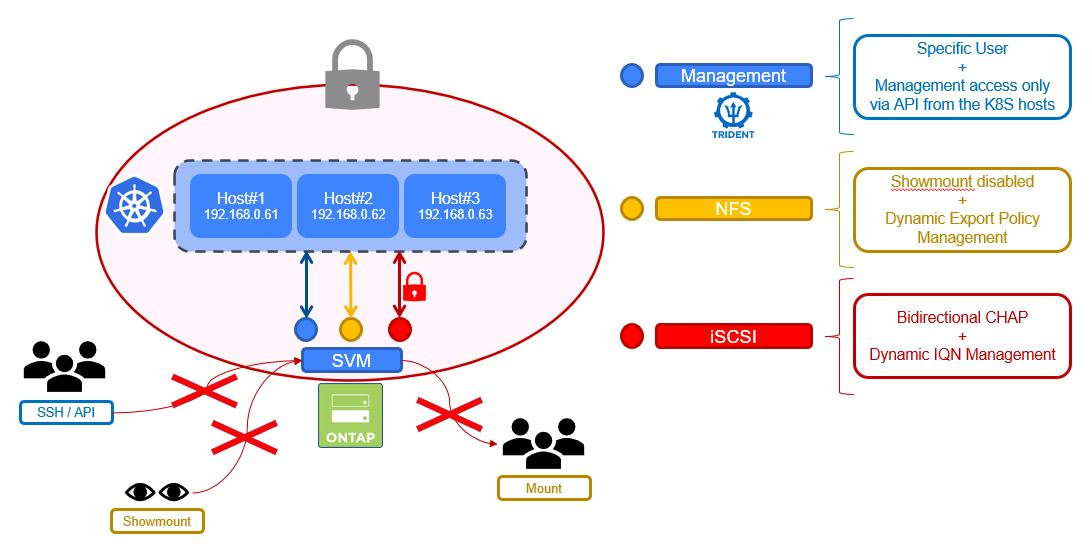
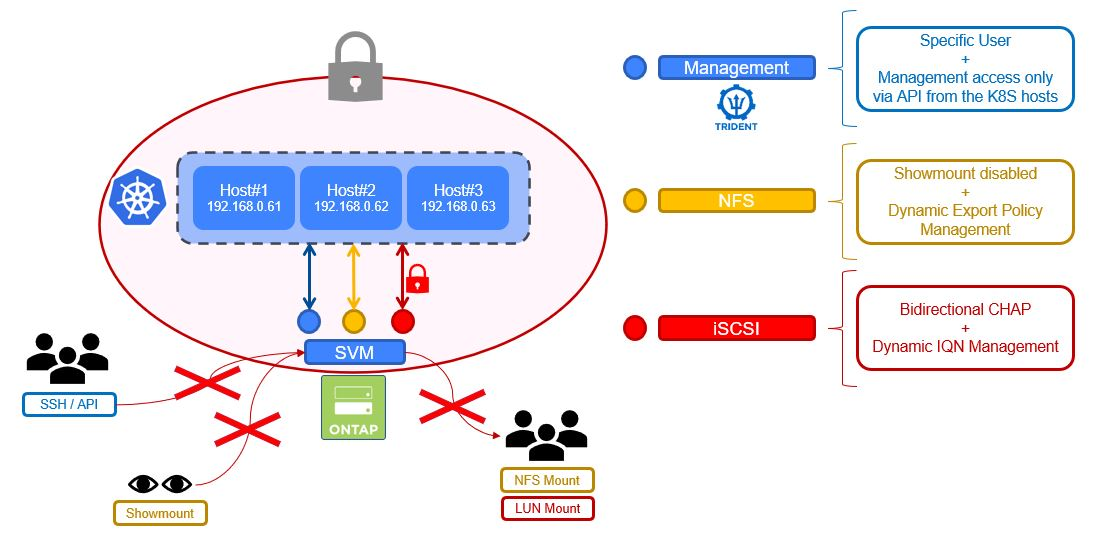
sc15 - chapter3

diff --git a/Kubernetes_v2/Scenarios/Scenario15/2_NFS_Showmount/README.md b/Kubernetes_v2/Scenarios/Scenario15/2_NFS_Showmount/README.md
@@ -1,0 +1,46 @@
+#########################################################################################
+# SCENARIO 15.2: NFS Showmount
+#########################################################################################  
+
+Unix hosts often have a very useful program called _showmount_.  
+A person can just run this command against a NFS server to see what volumes are currently exported & available to be mounted.
+Depending on who has access to these hosts, this can be seen as a security hole.  
+
+This feature is enabled on the SVM called _SVM1_. Let's see what we get:
+
+```bash 
+$ showmount -e 192.168.0.135
+Export list for 192.168.0.135:
+/nas1_pvc_04a9ce10_a7e8_4747_8673_fa5a2f762a1d    (everyone)
+/nas1_pvc_7f9f3ba2_7222_4f38_bf86_224a7f37b69a    (everyone)
+/nas1_pvc_7fa51ef2_1196_4b0a_ae18_8792af6d52eb    (everyone)
+/nas1_pvc_f2b2b16f_db6b_4562_9702_15b285026d79    (everyone)
+/registry                                         (everyone)
+/                                                 (everyone)
+/vol_import_manage                                (everyone)
+/vol_import_nomanage                              (everyone)
+/www                                              (everyone)
+```
+
+Now that we know what resources are available, one could very well mount one of these volumes, granted the export policy allow them to do so.  
+
+The storage admin can disable this feature on the backend, in order to avoid getting such list.  
+We will again use an ansible script to do so, on the SVM we created for this exercise:
+
+```bash
+$ ansible-playbook svm_secured_showmount.yaml
+PLAY [localhost]
+TASK [Gathering Facts]
+TASK [Disable Showmount]
+PLAY RECAP
+localhost                  : ok=2    changed=1    unreachable=0    failed=0    skipped=0    rescued=0    ignored=0
+```
+
+Now, if you try to list the exported volumes, you will receive an empty result:
+
+```bash
+$ showmount -e 192.168.0.211
+Export list for 192.168.0.211:
+```
+
+Notice I used the NFS LIF (IP 211), as the Management LIF (IP 210) does not have NFS capability on this SVM.

diff --git a/Kubernetes_v2/Scenarios/Scenario15/1_Network_Management/README.md b/Kubernetes_v2/Scenarios/Scenario15/1_Network_Management/README.md
@@ -34,13 +34,11 @@ Let's configure our new SVM to restrict:
 - Management tasks to HTTP only & to Kubernetes hosts only
 - Data paths to Kubernetes hosts only
 
-############### IMAGE
-
 We will use another ansible playbook to create these new network objects:
 
 ```bash
 $ ansible-playbook svm_secured_network.yaml
-PLAY [Secured SVM User Management]
+PLAY [Secured SVM Network Management]
 TASK [Gathering Facts]
 TASK [Create Specific User]
 TASK [Create Service Policy for Management]
@@ -52,3 +50,9 @@ TASK [Create iSCSI Interface]
 PLAY RECAP
 localhost                  : ok=7    changed=7    unreachable=0    failed=0    skipped=0    rescued=0    ignored=0
 ```
+
+With this configuration:
+
+- NFS mounts can only be done through one LIF & only on the Kubernetes nodes
+- iSCSI LUNs can only be done via the iSCSI LIF & only on the Kubernetes nodes
+- SVM Management is restricted to API & only on the Kubernetes nodes

diff --git a/Kubernetes_v2/Scenarios/Scenario15/README.md b/Kubernetes_v2/Scenarios/Scenario15/README.md
@@ -34,3 +34,4 @@ localhost                  : ok=6    changed=0    unreachable=0    failed=0    s
 Two items will be covered in this chapter:  
 [1.](1_Network_Management) How do I restrict network accesses to specific hosts & needs?  
 [2.](2_NFS_Showmount) How do you avoid a malicious listing of available NFS exports  
+[3.](3_Trident_Configuration) Let's see the end result
